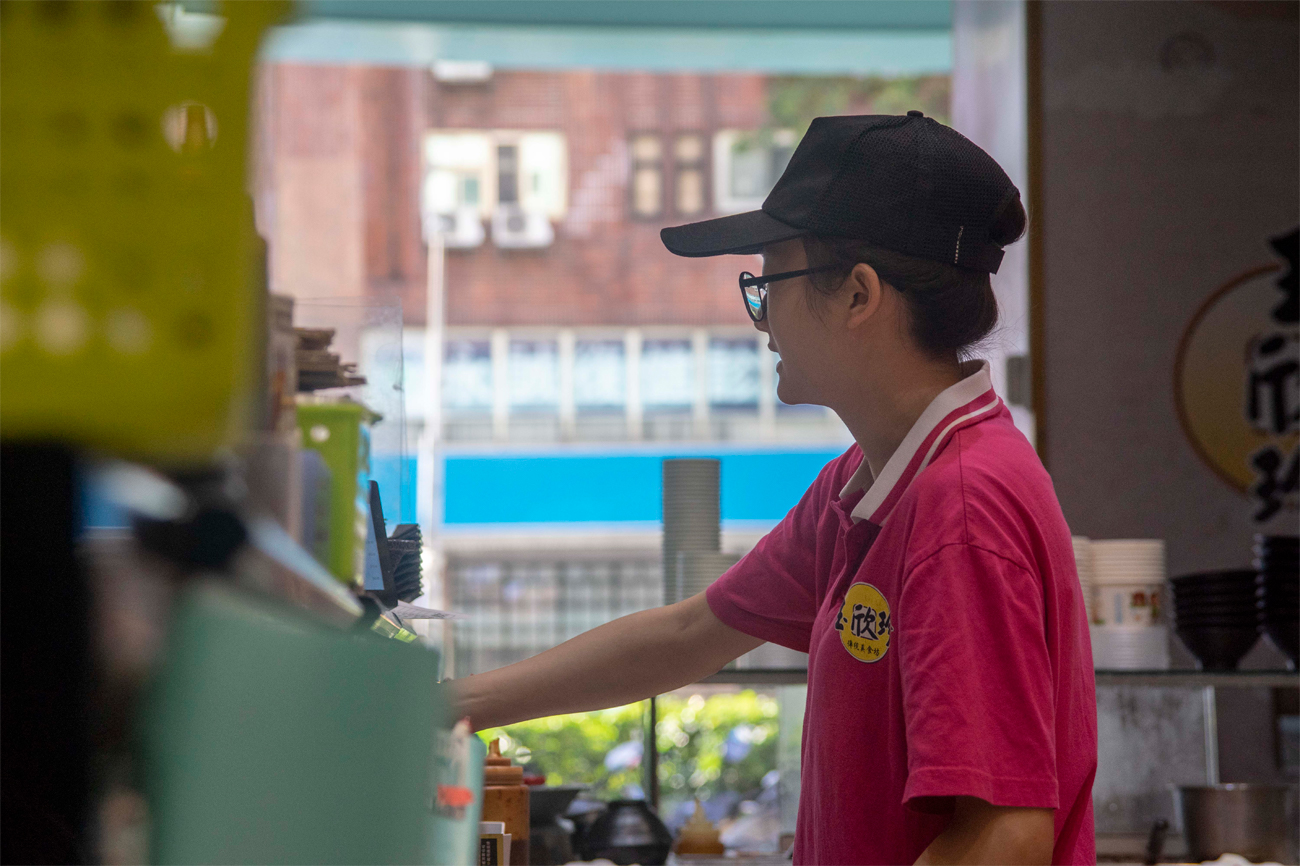
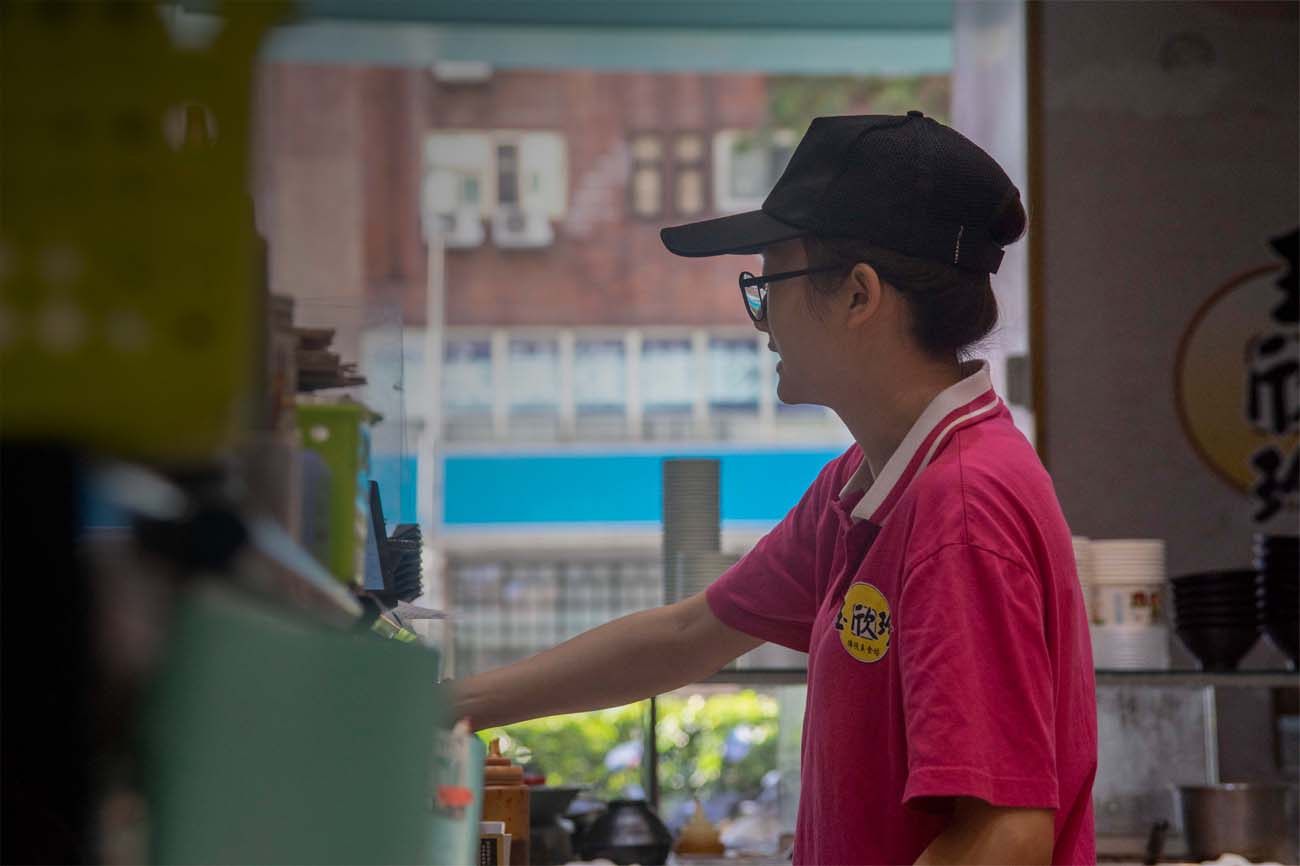
update y3

diff --git a/index.html b/index.html
@@ -442,16 +442,34 @@
       </div>
     </div>
   </div>
-  
-<!---->
-  <div class="sub3 sticky-top " id="story4-3" >
+ 
+
+  <div class="sub3 sticky-top" id="story4-3" >
+    <div class="container">
+      <div class="row">
+        <div class="col-8">
+          <h1><span class="red">「</span>因為也會被抽掉很多啊！<span class="green">」</span></h1>
+        </div>
+        <div class="col-sm"></div>
+      </div>
+      <div class="row">
+        <div class="col-sm">
+          <p>店員有點無奈的笑著，否認加入外送平台使生意變好很多。即便營收占了三分之一，在高比例的抽成下，業者仍然不認為整體利潤有大幅提高。</p>
+          <p>不過，另一方面，外送平台還是帶來了好處。
+          </p>
+          <p>「因為現在它是一個趨勢，所以就會變得也很多新的客人來。」店員提到，因為外送平台的關係，其他地方的客人也知道了這家店。舉例來說，之前就有遠在士林、內湖的客人特地打電話來訂餐，即使地區太遠沒有提供服務，訂單量夠大的時候，玉欣珍就自己送過去。
+          </p>
+        </div>
+        <div class="col-sm"></div>
+      </div>
+    </div>
 
   </div>
 
-</div>
+
   <section style="height: 100vh;"></section>
 
-
+</div>
 
 
 </body>

diff --git a/css/main.css b/css/main.css
@@ -266,7 +266,7 @@ section {
     background-image: url("../img/Y_4_1160x773.jpg");
 }
 #story4-3{
-    background-image: url("../img/Y_3_1160x773.jpg");
+    background-image: url("../img/Y_3_1300x866.jpg");
 }
 
 .transY{
